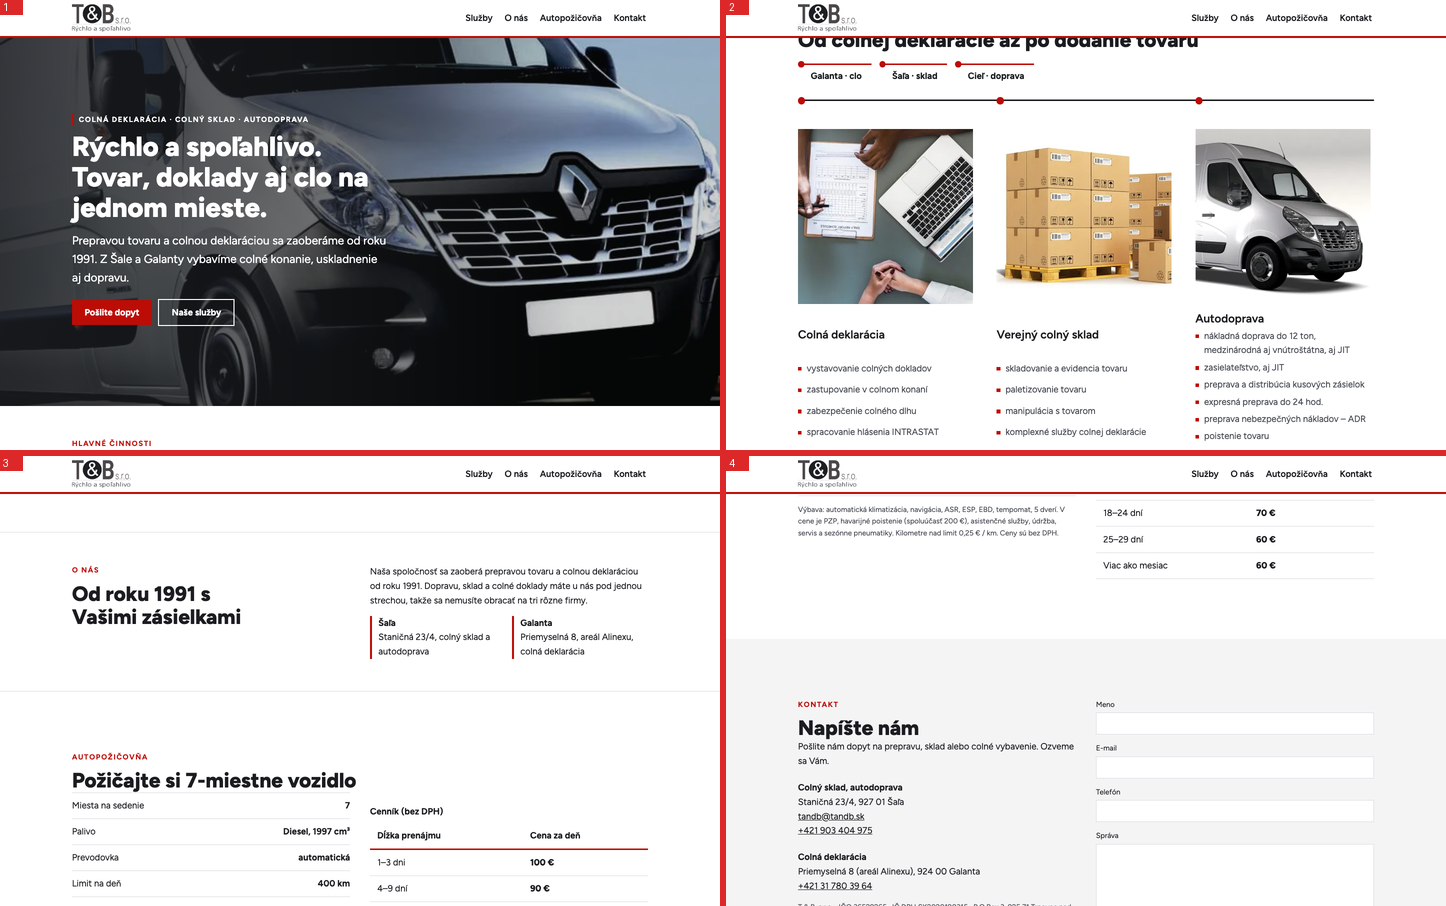
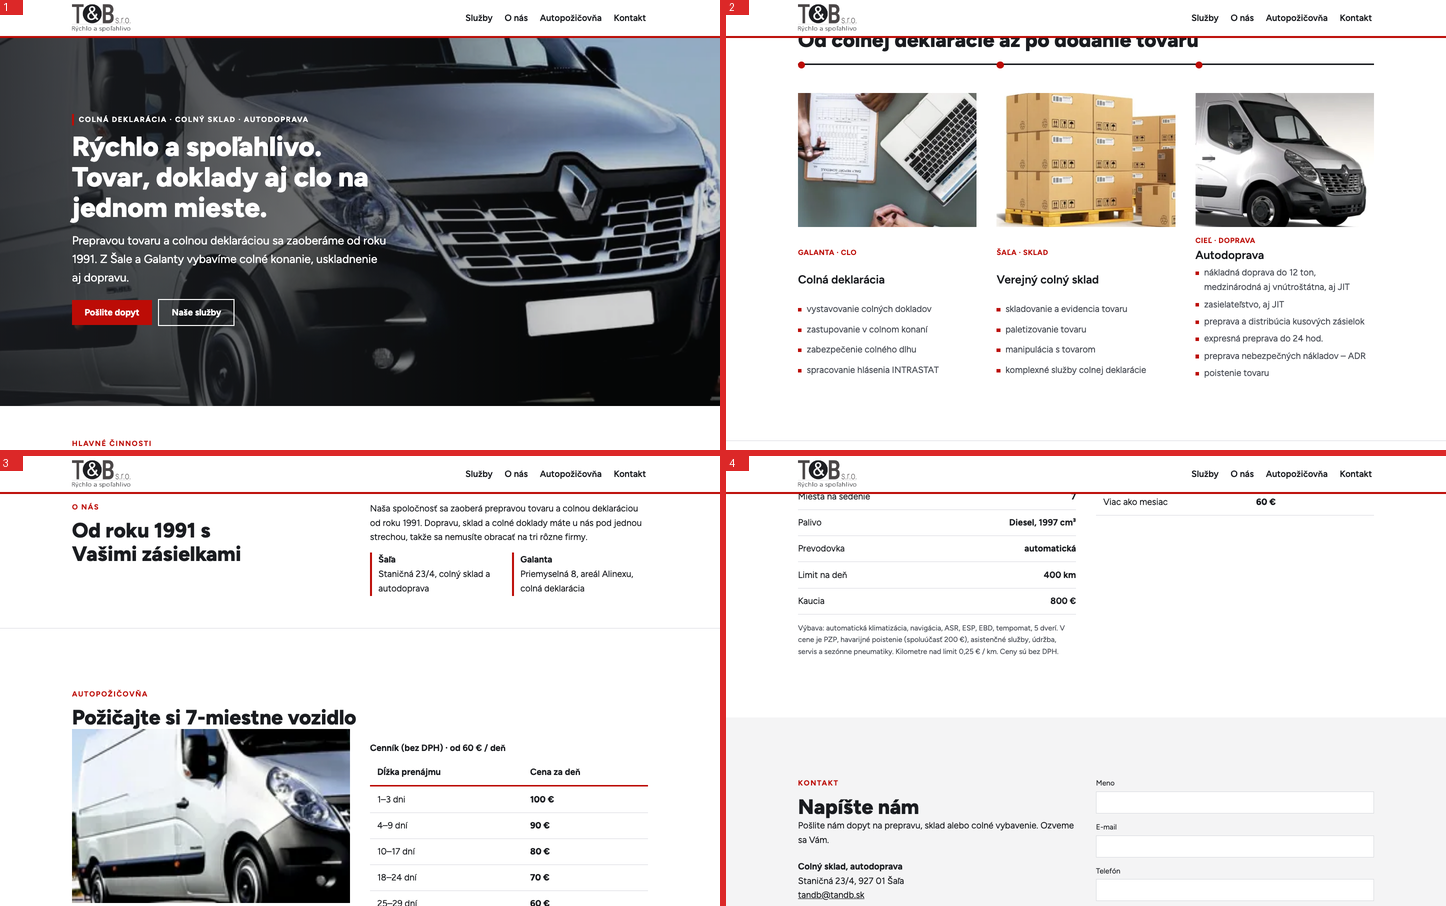
Aktualizace webu 2026-10-16 08:10

diff --git a/static/css/style.css b/static/css/style.css
@@ -167,3 +167,7 @@ html { scroll-padding-top: 5rem; }
   .stanica::before { top:.2rem; }
   .stanica .zastavka { margin-top:0; }
 }
+/* kolo 4 */
+.stanica picture, .stanica img { display:block; }
+.stanica img { height:11rem !important; }
+@media (max-width:40rem){ .stanica img { height:auto !important; max-width:22rem; } }
